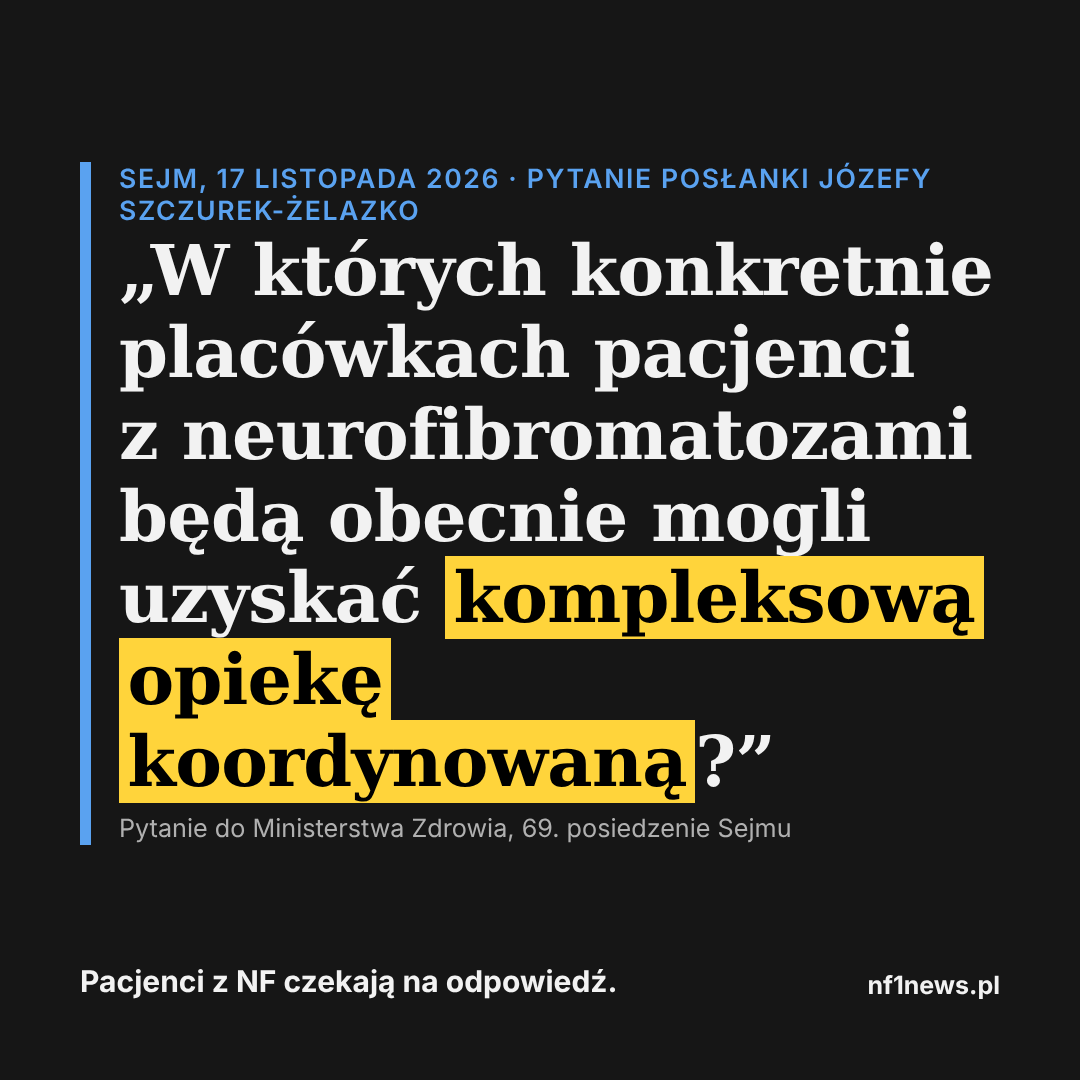
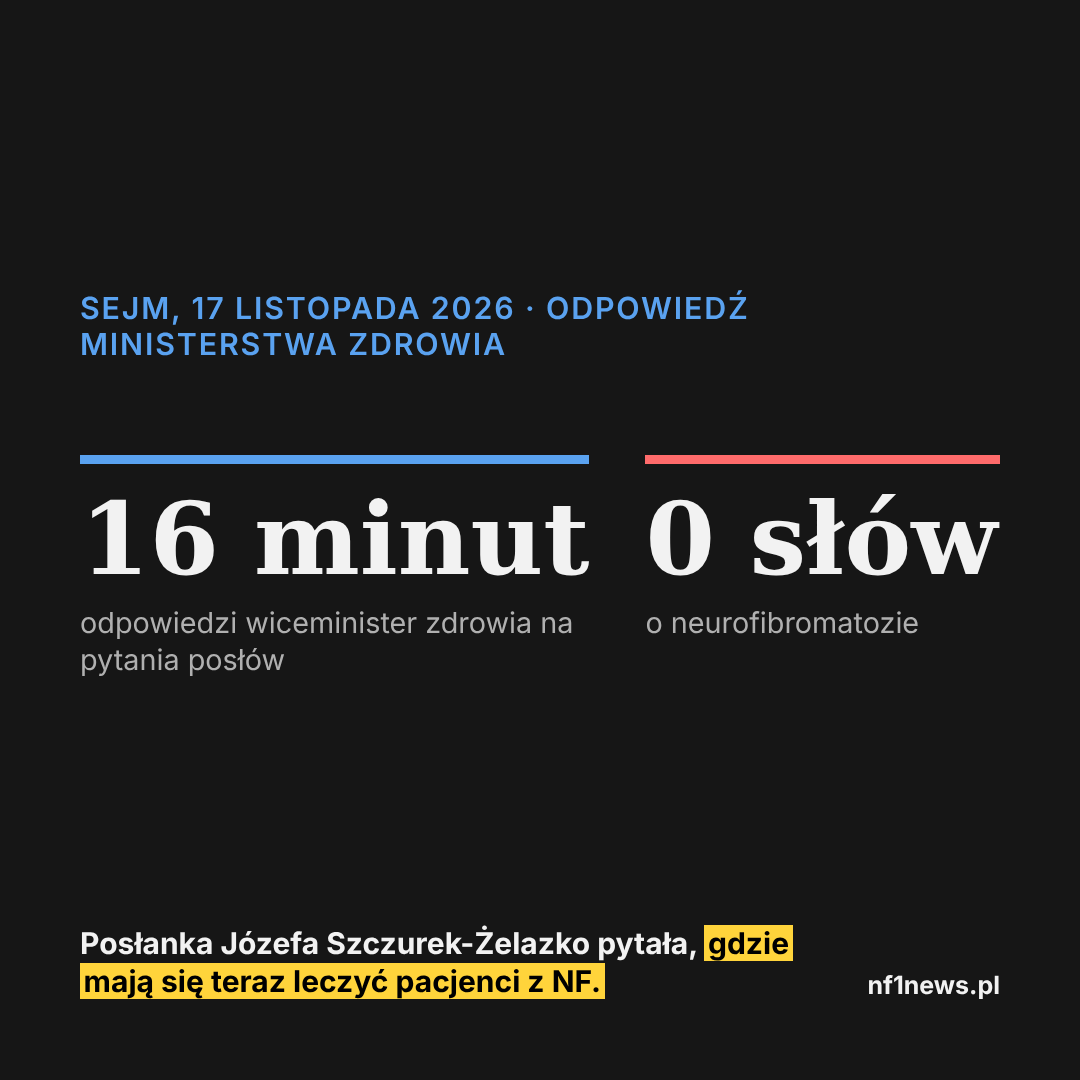
Wpis o pytaniu w Sejmie: grafika z liczbami, tekst na X
Claude-Session: https://claude.ai/code/session_019jaYATWWuENdvptKZLvp24

Changed region(s): [[0.0611, 0.1528, 0.9167, 0.7944], [0.0611, 0.8556, 0.7333, 0.9472], [0.4889, 0.1528, 0.8556, 0.1833]]

diff --git a/_posts/2026-11-23-pytanie-o-nf-w-sejmie.md b/_posts/2026-11-23-pytanie-o-nf-w-sejmie.md
@@ -3,9 +3,9 @@ date: 2026-11-23 22:30:00 +0100
 title: "Pytanie o pacjentów z NF na sali Sejmu. Posłanka pytała, gdzie mają się teraz leczyć"
 description: "17 listopada 2026 r., w debacie nad nowelizacją ustawy refundacyjnej, posłanka Józefa Szczurek-Żelazko zapytała Ministerstwo Zdrowia, dlaczego nie zapewniono ciągłości opieki po zakończeniu pilotażu NF i w których placówkach pacjenci z neurofibromatozami mogą teraz uzyskać opiekę koordynowaną. Przytaczamy pytanie i odpowiedź wiceminister zdrowia Katarzyny Kacperczyk ze stenogramu Sejmu."
 image: /assets/grafiki/2026-11-23-pytanie-o-nf-w-sejmie.png
-grafika_alt: "Sejm, 17 listopada 2026. Pytanie posłanki Józefy Szczurek-Żelazko: W których konkretnie placówkach pacjenci z neurofibromatozami będą obecnie mogli uzyskać kompleksową opiekę koordynowaną? Pacjenci z NF czekają na odpowiedź."
+grafika_alt: "Sejm, 17 listopada 2026, odpowiedź Ministerstwa Zdrowia: 16 minut odpowiedzi wiceminister zdrowia na pytania posłów. 0 słów o neurofibromatozie. Posłanka Józefa Szczurek-Żelazko pytała, gdzie mają się teraz leczyć pacjenci z NF."
 tweet: false
-tweet_jutro: "17.11 w Sejmie posłanka Józefa Szczurek-Żelazko zapytała MZ, w których placówkach pacjenci z NF mogą teraz uzyskać opiekę koordynowaną. W stenogramie odpowiedzi wiceminister zdrowia nie ma słów „neurofibromatoza” ani „pilotaż”. @MZ_GOV_PL #NF1 #neurofibromatoza"
+tweet_jutro: "16 minut odpowiedzi wiceminister zdrowia w Sejmie. 0 słów o neurofibromatozie. A posłanka @SzczurekZelazko (PiS) pytała wprost: gdzie mają się teraz leczyć pacjenci z NF po końcu pilotażu? Bez opieki koordynowanej są od 30 kwietnia. @MZ_GOV_PL #NF1 #ChorobyRzadkie"
 fb: "17 listopada 2026 r. w Sejmie, w debacie nad nowelizacją ustawy refundacyjnej, posłanka Józefa Szczurek-Żelazko zapytała Ministerstwo Zdrowia: „Dlaczego nie zapewniono ciągłości opieki po zakończeniu tego pilotażu? W których konkretnie placówkach pacjenci z neurofibromatozami będą obecnie mogli uzyskać kompleksową opiekę koordynowaną, finansowaną w ramach Narodowego Funduszu Zdrowia?”. Na pytania posłów odpowiadała wiceminister zdrowia Katarzyna Kacperczyk. Przytaczamy pytanie i odpowiedź ze stenogramu. Pacjenci z NF czekają na odpowiedź. #NF1 #neurofibromatoza #ChorobyRzadkie"
 ---
 
